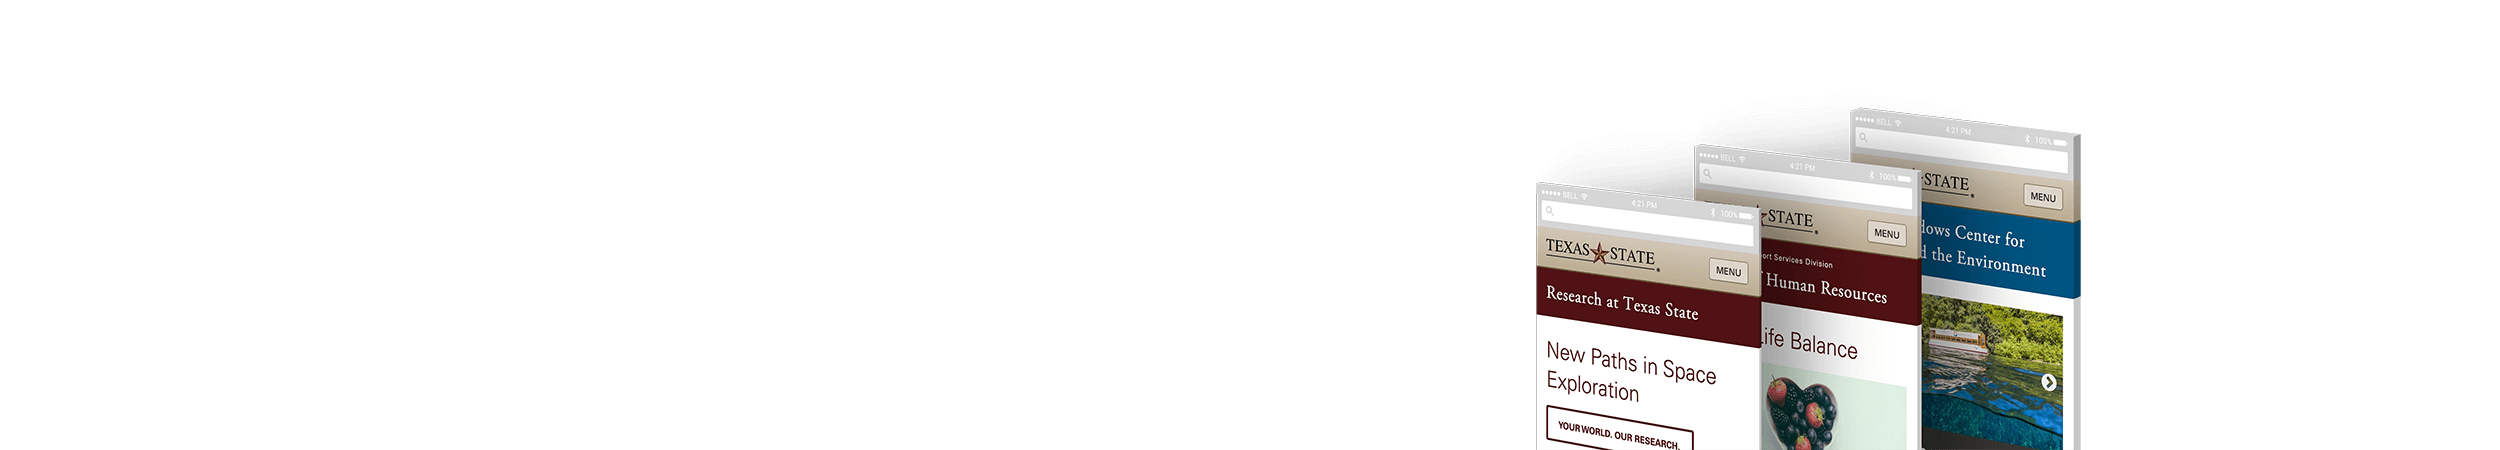
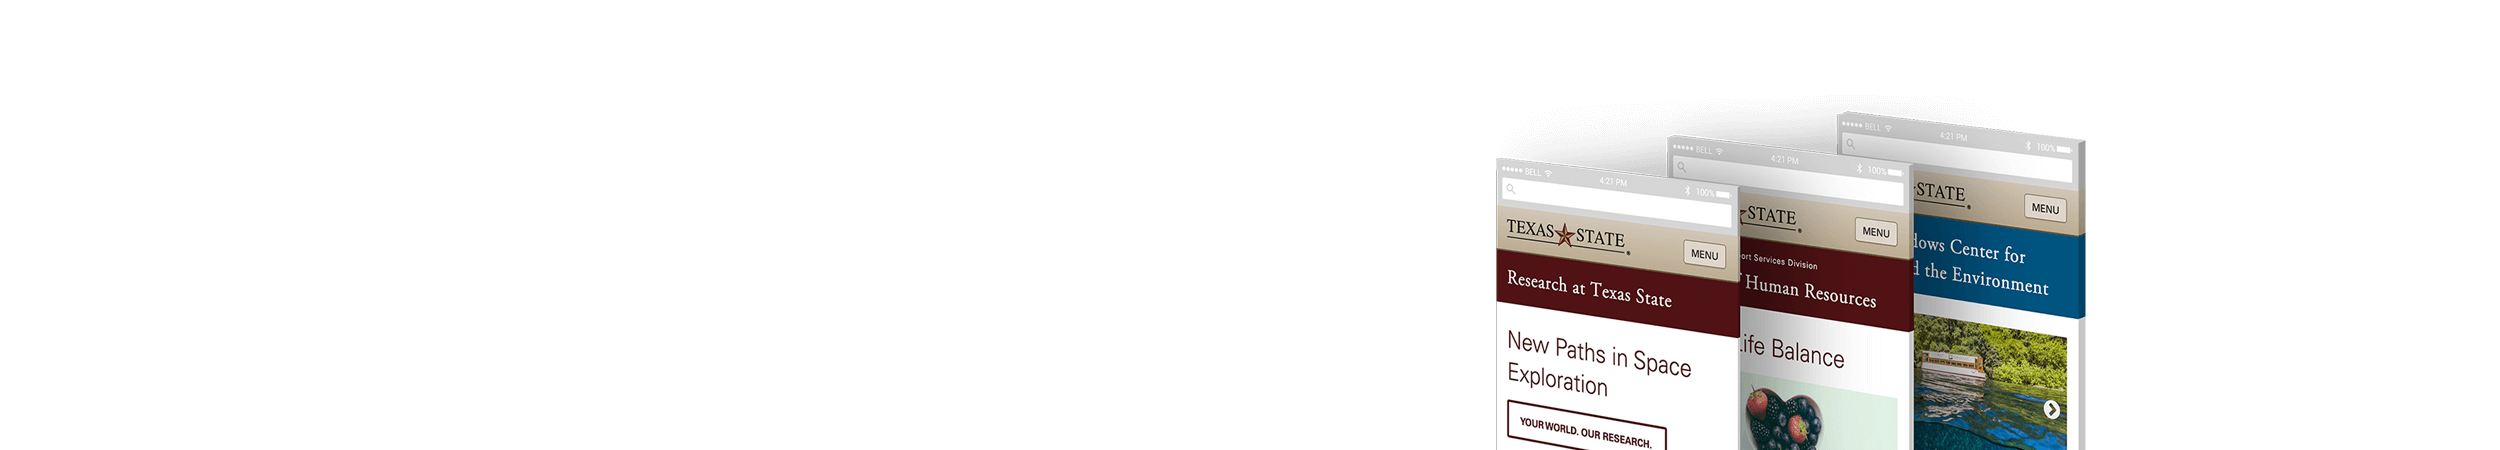
optimized images

Changed region(s): [[0.5928, 0.2489, 0.8424, 1.0]]

diff --git a/portfolio/index.html b/portfolio/index.html
@@ -50,7 +50,7 @@
 			
 			<div class="project multi-layout">
 				<div class="col col-1">
-					<img src="../images/txst-homepage-mockup.png" alt="Texas State homepage mockup">
+					<img src="../images/mockup-txst-homepage.png" alt="Texas State homepage mockup">
 				</div>
 				<div class="col col-2">
 					<h3 class="project-header">Texas State University homepage</h3>
@@ -61,7 +61,7 @@
 			
 			<div class="project multi-layout">
 				<div class="col col-1">
-					<img src="../images/txst-standard-mockup.png" alt="Texas State template mockup">
+					<img src="../images/mockup-txst-standard.png" alt="Texas State template mockup">
 				</div>
 				<div class="col col-2">
 					<h3 class="project-header">Texas State University unit template</h3>
@@ -72,7 +72,7 @@
 			
 			<div class="project multi-layout">
 				<div class="col col-1">
-					<img src="../images/txst-styleguide-elements.png" alt="Texas State style guide mockup">
+					<img src="../images/mockup-txst-styleguide.png" alt="Texas State style guide mockup">
 				</div>
 				<div class="col col-2">
 					<h3 class="project-header">Texas State University digital identity</h3>
@@ -83,7 +83,7 @@
 			
 			<div class="project multi-layout">
 				<div class="col col-1">
-					<img src="../images/pcf-website-laptop-2.png" alt="Plano Cycling homepage mockup">
+					<img src="../images/mockup-pcf-website.png" alt="Plano Cycling homepage mockup">
 				</div>
 				<div class="col col-2">
 					<h3 class="project-header">Plano Cycling website</h3>
@@ -101,7 +101,7 @@
 			
 			<div class="project multi-layout">
 				<div class="col col-1">
-					<img src="../images/tints-shades-pixel-mockup-2.png" alt="Tint and shade generator mockup">
+					<img src="../images/mockup-tints-shades.png" alt="Tint and shade generator mockup">
 				</div>
 				<div class="col col-2">
 					<h3 class="project-header">Tint &amp; shade generator</h3>

diff --git a/css/main.css b/css/main.css
@@ -19,7 +19,7 @@ h1, h2, h3, h4, .signature, .intro, .footer, .button, .button-light, .tags {font
 .signature a:hover .sig-letter:nth-child(4n+2) {bottom: 0.2rem;}
 .signature a:hover .sig-letter:nth-child(4n+3) {transform: rotate(10deg);}
 .signature a:hover .sig-letter:nth-child(4n+4) {bottom: -0.2rem;}
-.intro {background-image: url(../images/droplets-bw.jpg); background-size: cover; background-position: 50% 30%;}
+.intro {background-image: url(../images/droplets.jpg); background-size: cover; background-position: 50% 30%;}
 .intro-wrapper {background: rgba(64,33,37,0.9); color: #fff; box-shadow: 0 0.4rem #d9554c, 0 0.8rem #c34d44;}
 .intro-content {padding-top: 2.5rem; padding-bottom: 2.5rem; }
 .intro h1 {font-size: 6.4rem; line-height: 1.1; font-weight: bold; text-shadow: .4rem .4rem #220b17; position: relative; left: 0; margin: 0; margin-left: -0.3rem;}

diff --git a/404.html b/404.html
@@ -44,7 +44,7 @@
 	<div class="main-area-content feature-text constrain">
 	
 		<div class="content-section">
-			<img class="full-width" src="http://michaeledelstone.com/images/whatd-you-do.gif" alt="What'd you do?" />
+			<img class="full-width" src="http://edelstone.github.io/my-website/images/whatd-you-do.gif" alt="What'd you do?" />
 		</div>
 		<div class="content-section">
 			<h2>Page Not Found</h2>
